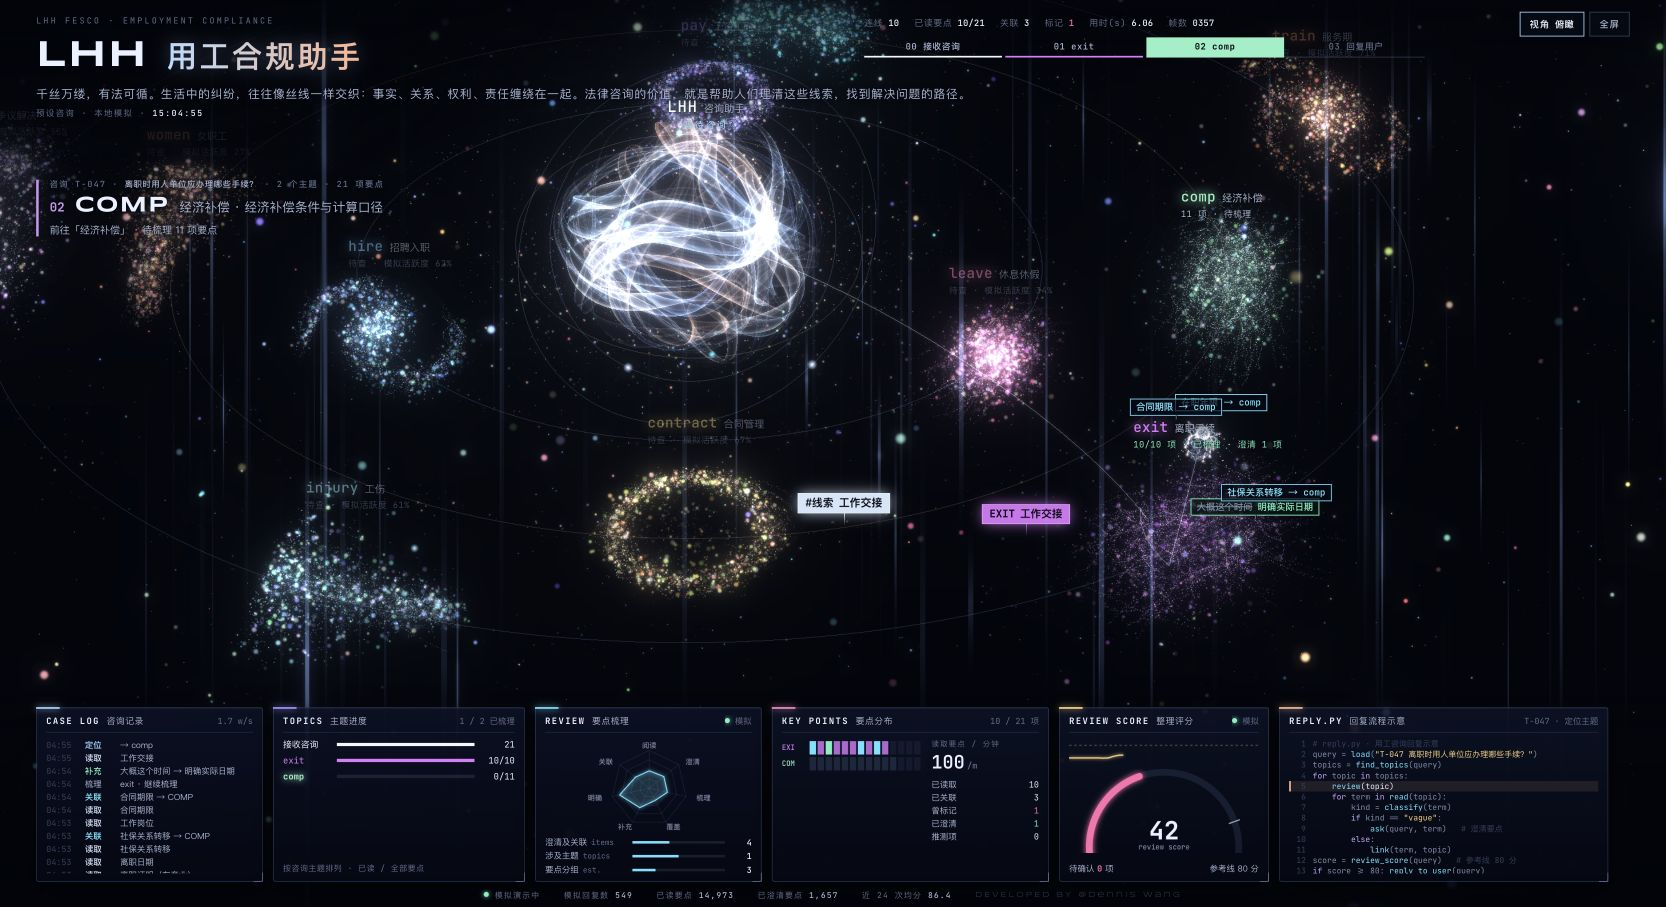
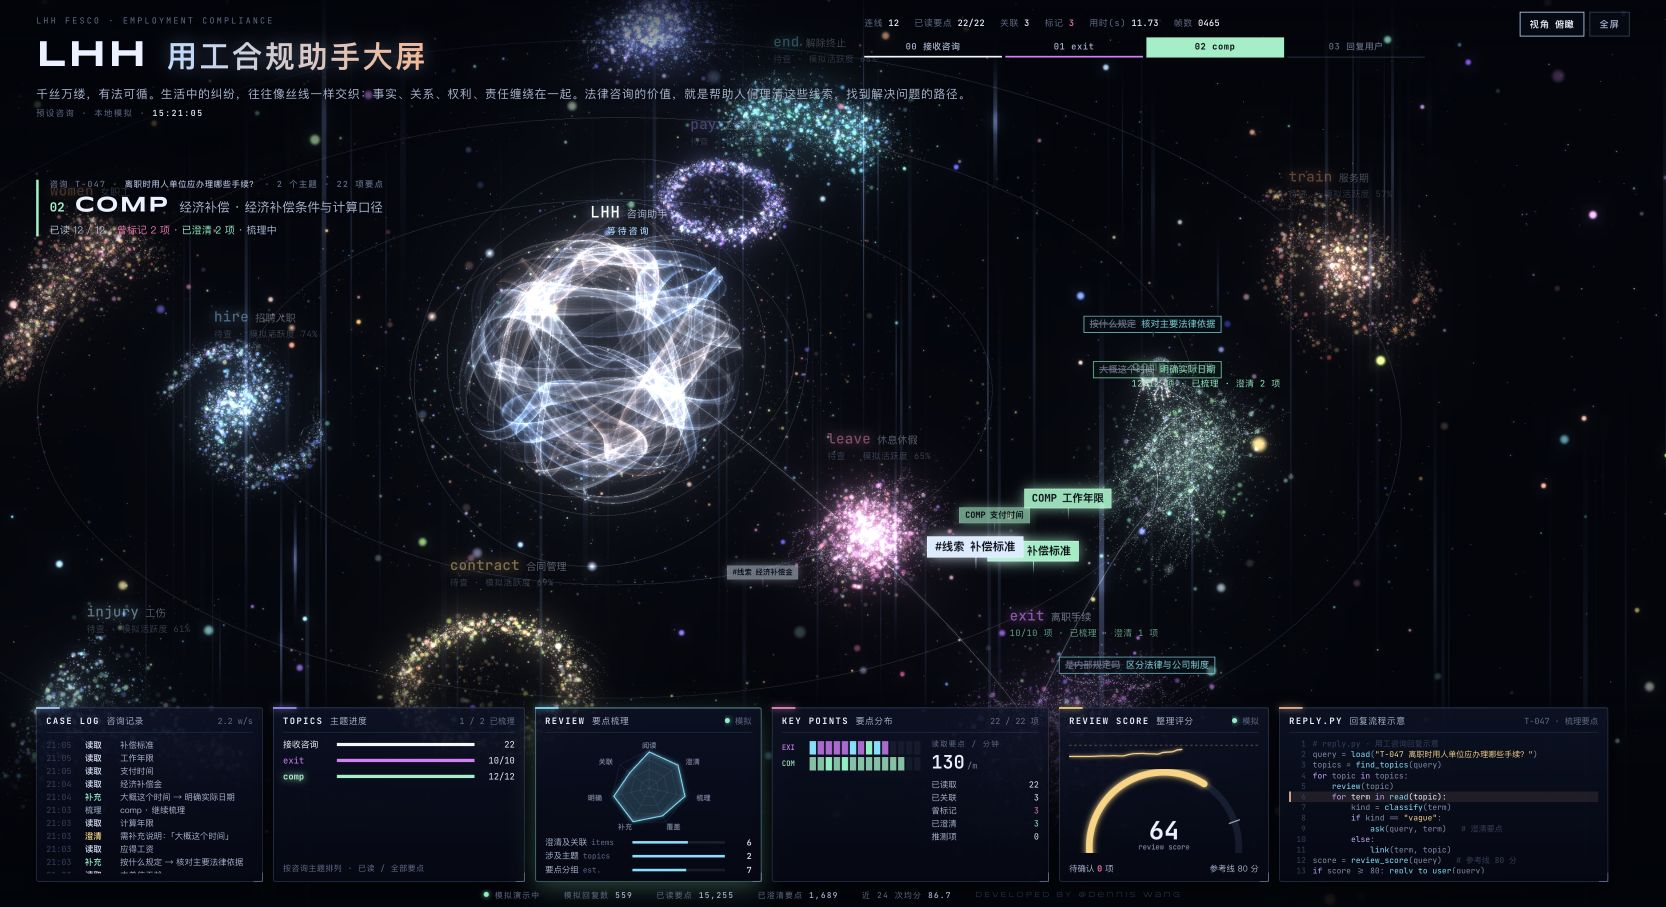
Rename display to LHH用工合规助手大屏

diff --git a/index.html b/index.html
@@ -6,12 +6,12 @@
   Required Notice: Copyright (c) 2026 Dennis Wang
   非商业用途可免费使用；商业使用需另行获得授权，联系 cyberdaddyleo@outlook.com。许可证全文见仓库 LICENSE 文件或 https://polyformproject.org/licenses/noncommercial/1.0.0
 -->
-<!-- LHH · 星核蜘蛛独立分支。蜘蛛模型及动画恢复自 https://github.com/cyberdaddyleo/agent-display ，版本 ff44824a741d9b2a767b82f39d3dd34c75c87e3f。 -->
+<!-- LHH用工合规助手大屏。模型及动画恢复自 https://github.com/cyberdaddyleo/agent-display ，版本 ff44824a741d9b2a767b82f39d3dd34c75c87e3f。 -->
 <html lang="zh-CN">
 <head>
 <meta charset="utf-8">
 <meta name="viewport" content="width=device-width, initial-scale=1, viewport-fit=cover">
-<title>LHH用工合规助手</title>
+<title>LHH用工合规助手大屏</title>
 <link rel="icon" href="data:,">
 <link rel="stylesheet" href="vendor/fonts/fonts.css">
 <style>
@@ -20,7 +20,7 @@ html, body { height: 100%; margin: 0; overflow: hidden; background: #03050c; col
 </style>
 </head>
 <body>
-<main id="host-nebula" aria-label="LHH用工合规助手"></main>
+<main id="host-nebula" aria-label="LHH用工合规助手大屏"></main>
 <template id="tpl-nebula">
 <style>
 /* Layout: 整屏是一片星云 —— 正中是 CHIEF 的丝带星核，四周 12 团彩色星云各代表一个智能体。
@@ -204,7 +204,7 @@ button.tb:focus-visible{outline:1px solid var(--ice);outline-offset:2px}
 @media (prefers-reduced-motion:reduce){.cl,.wt{transition:none}.code li.cur::after{animation:none}}
 </style>
 
-<canvas class="gl" id="gl" aria-label="LHH用工合规助手咨询星图。12 团星云对应 12 类用工问题。蜘蛛梳理相关要点，遇到疑问时补充说明，最后汇总并模拟回复用户。拖动旋转视角，滚轮缩放，点击星云可拉近查看。"></canvas>
+<canvas class="gl" id="gl" aria-label="LHH用工合规助手大屏咨询星图。12 团星云对应 12 类用工问题。蜘蛛梳理相关要点，遇到疑问时补充说明，最后汇总并模拟回复用户。拖动旋转视角，滚轮缩放，点击星云可拉近查看。"></canvas>
 <div class="vig" aria-hidden="true"></div>
 <div class="ovl" id="lbls" aria-hidden="true"></div>
 <div class="nr" id="nr">
@@ -214,7 +214,7 @@ button.tb:focus-visible{outline:1px solid var(--ice);outline-offset:2px}
   <div class="botfade"></div>
   <header class="hd">
    <div class="eb">LHH FESCO · EMPLOYMENT COMPLIANCE</div>
-   <h1><span class="l1">LHH<em>用工合规助手</em></span></h1>
+   <h1><span class="l1">LHH<em>用工合规助手大屏</em></span></h1>
    <div class="sub">千丝万缕，有法可循。生活中的纠纷，往往像丝线一样交织：事实、关系、权利、责任缠绕在一起。法律咨询的价值，就是帮助人们理清这些线索，找到解决问题的路径。</div>
    <div class="sub2">预设咨询 · 本地模拟 · <b id="clock">--:--:--</b></div>
   </header>
@@ -285,7 +285,7 @@ button.tb:focus-visible{outline:1px solid var(--ice);outline-offset:2px}
 
  <div class="mini" id="mini">
   <div class="m-top">
-   <div class="m-title">LHH用工合规助手<i>千丝万缕，有法可循。生活中的纠纷，往往像丝线一样交织：事实、关系、权利、责任缠绕在一起。法律咨询的价值，就是帮助人们理清这些线索，找到解决问题的路径。</i></div>
+   <div class="m-title">LHH用工合规助手大屏<i>千丝万缕，有法可循。生活中的纠纷，往往像丝线一样交织：事实、关系、权利、责任缠绕在一起。法律咨询的价值，就是帮助人们理清这些线索，找到解决问题的路径。</i></div>
    <div class="m-btns pe">
     <button class="tb" type="button" data-act="mode">视角<b data-f="mode">俯瞰</b></button>
    </div>

diff --git a/README.md b/README.md
@@ -1,4 +1,4 @@
-# LHH 用工合规助手 · 星核蜘蛛大屏
+# LHH用工合规助手大屏
 
 把用工咨询的梳理过程，展示为一只星云蜘蛛在 12 类用工主题之间跳跃、读词、连线、澄清并汇总回复的 3D 大屏。
 
@@ -50,6 +50,6 @@ NOTICE          来源及版权说明
 
 ## 来源与许可
 
-基于 [cyberdaddyleo/agent-display](https://github.com/cyberdaddyleo/agent-display/tree/ff44824a741d9b2a767b82f39d3dd34c75c87e3f) 的星核蜘蛛版本进行 LHH 场景改编，保留上游版权声明与依赖许可。
+基于 [cyberdaddyleo/agent-display](https://github.com/cyberdaddyleo/agent-display/tree/ff44824a741d9b2a767b82f39d3dd34c75c87e3f) 的可视化版本进行 LHH 场景改编，保留上游版权声明与依赖许可。
 
 项目按 [PolyForm Noncommercial License 1.0.0](LICENSE) 分发。非商业用途可按许可使用；商业使用需另行获得授权。详情见 [NOTICE](NOTICE) 及上游项目。
